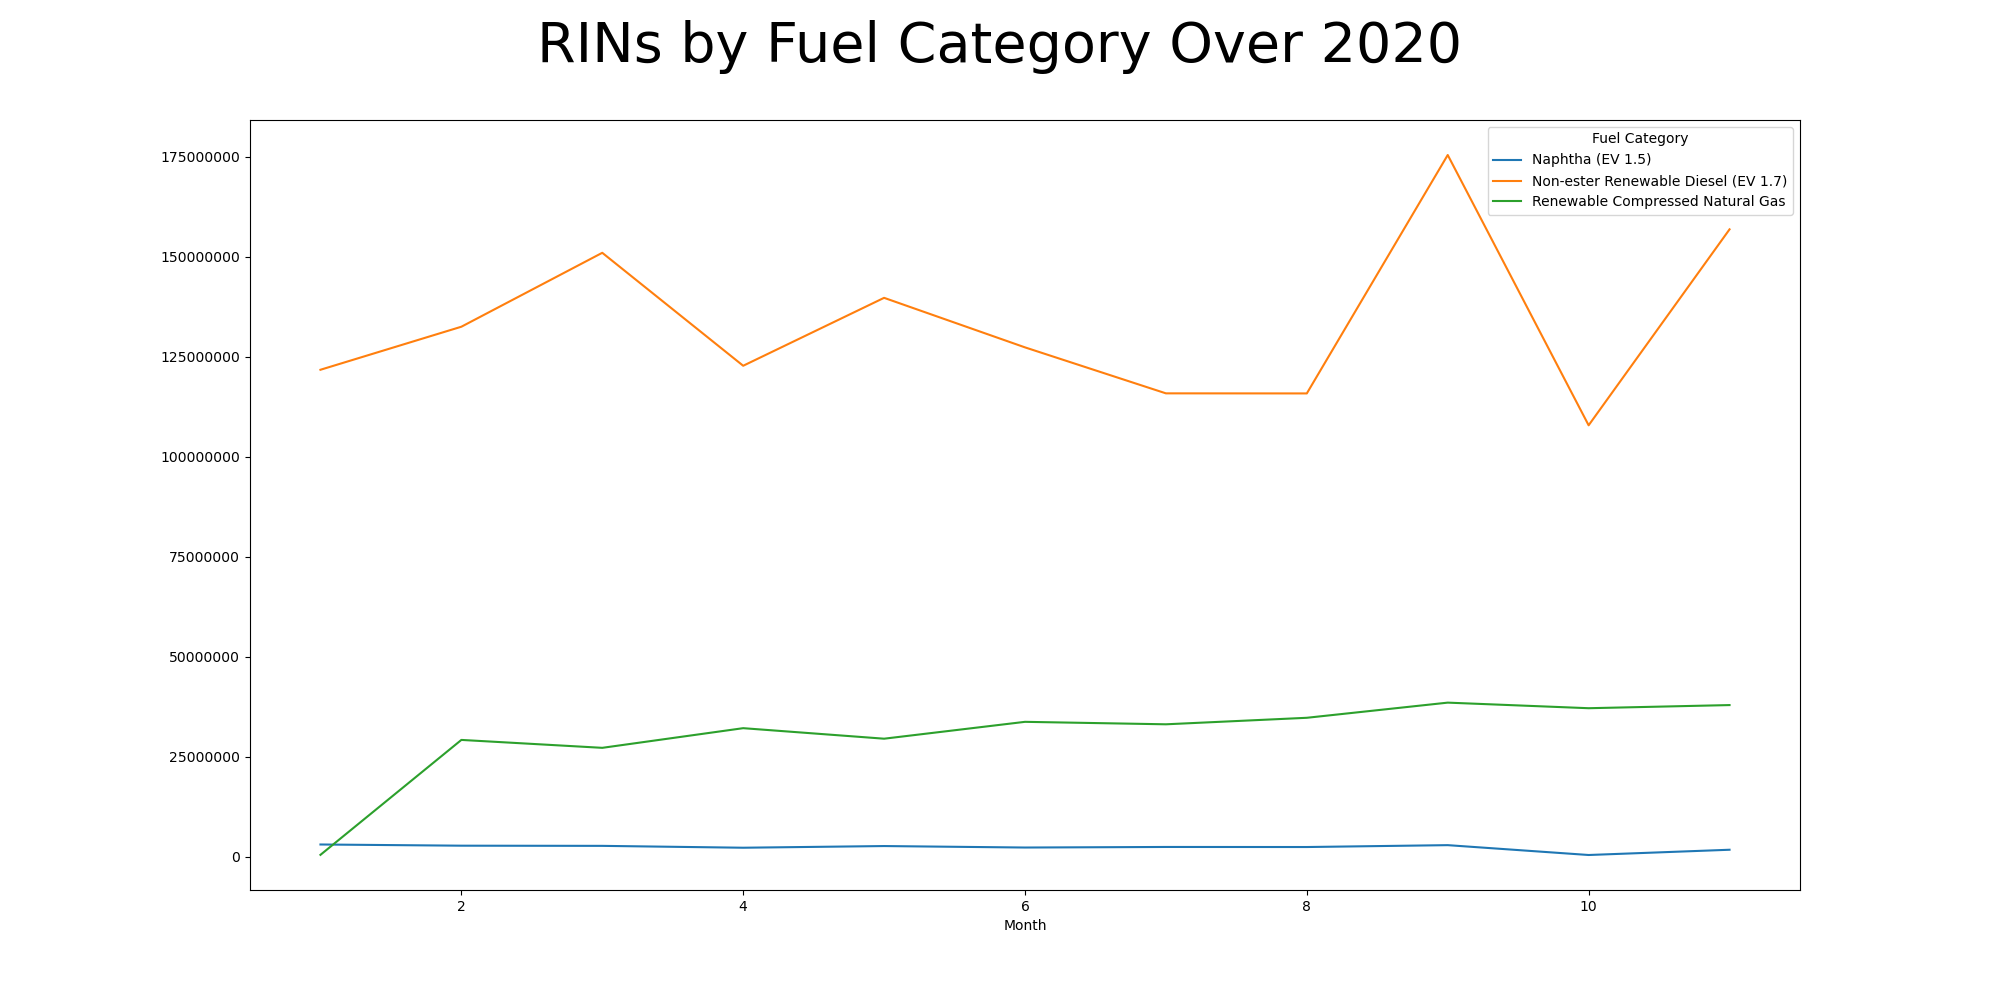
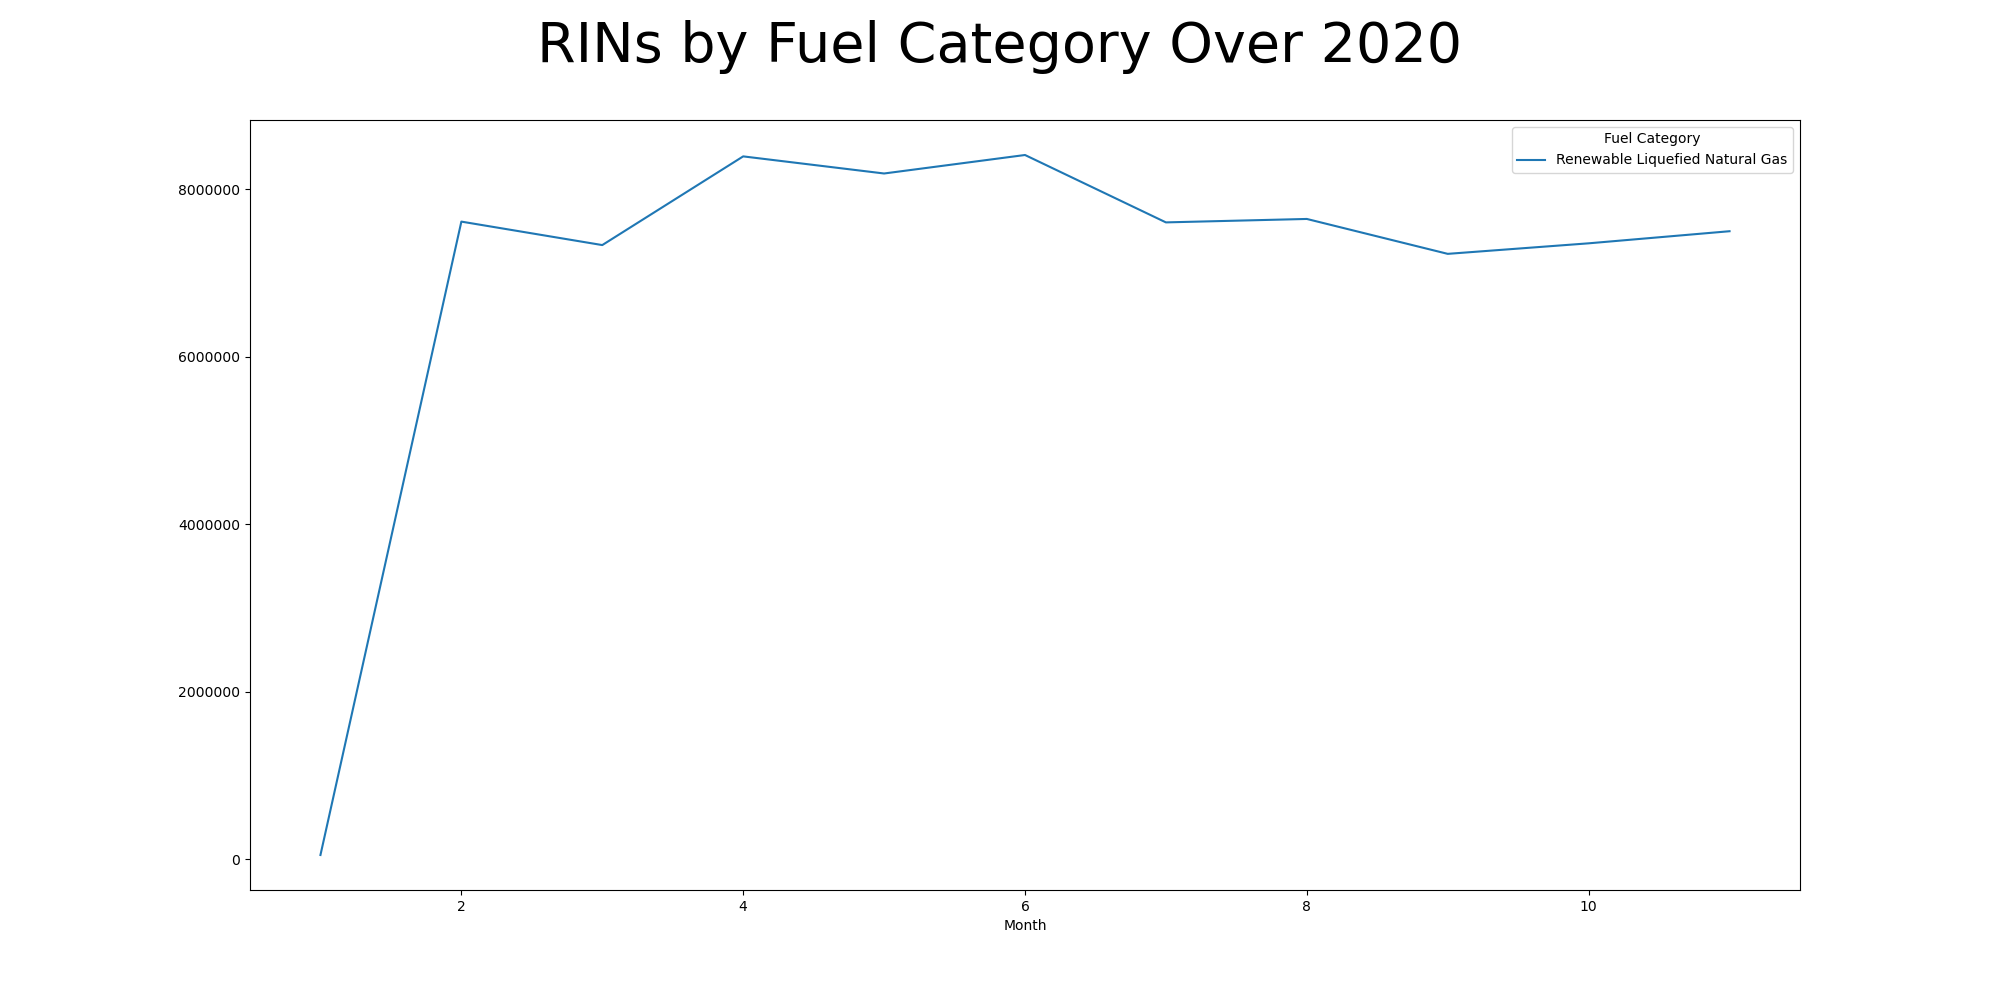
Fills NaN values

diff --git a/templates/plot.html b/templates/plot.html
@@ -8,15 +8,16 @@
         
         <title>Biofuel Plots</title>
     
-        <!-- External Links to CSS file -->
-        <link rel="stylesheet" media="all" type="text/css" href="../static/style.css" />
+        <!-- External Links to CSS files -->
+        <link rel="stylesheet" href="../static/css/bootstrap.min.css">
+        <link rel="stylesheet" href="../static/css/style.css">
     </head>
     <body>
-        <p>{{output}}</p>
-        <p>{{checked}}</p>
+        <!-- <p>{{output}}</p>
+        <p>{{checked}}</p> -->
         <div id="container">
             <form name="myForm" action="" method="post" onsubmit="">
-                <p>Choose Fuel Categories (check none to show all)</p>
+                <b>Choose Fuel Categories (check none to show all)</b><br>
                 <input type="checkbox" name="categories" id="category1" value="Biodiesel (EV 1.5)">
                 <label for="category1">Biodiesel (EV 1.5)</label><br>
                 <input type="checkbox" name="categories" id="category2" value="Cellulosic Ethanol (EV 1.0)">
@@ -40,15 +41,13 @@
                 <input type="checkbox" name="categories" id="category11" value="Renewable Jet Fuel (EV 1.6)">
                 <label for="category11">Renewable Jet Fuel (EV 1.6)</label><br>
                 <input type="checkbox" name="categories" id="category12" value="Renewable Liquefied Natural Gas">
-                <label for="category12">Renewable Liquefied Natural Gas</label><br>
-                <br>
-                <p>Choose Output</p>
+                <label for="category12">Renewable Liquefied Natural Gas</label><br><br>
+                <b>Choose Output</b><br>
                 <input type="radio" name="options" id="option1" value="RINs"> RINs <br>
-                <input type="radio" name="options" id="option2" value="Volume (Gal.)"> Volume (Gal.) <br>
-                <p><input type="submit" value="Submit"></p>
-                </form>
-            <br>
+                <input type="radio" name="options" id="option2" value="Volume (Gal.)"> Volume (Gal.) <br><br>
+                <button type="submit" class="btn btn-primary">Submit</button>
+            </form>
         </div>
-        <img src = "{{url}}" alt = "Biofuel line chart by category over 2020" width="75%">
+        <img src = "{{url}}" alt = "Biofuel line chart by category over 2020">
     </body>
 </html>

diff --git a/app.py b/app.py
@@ -1,5 +1,6 @@
 import matplotlib.pyplot as plt
 import pandas as pd
+import numpy as np
 from flask import Flask, render_template, Response, request
 
 app=Flask(__name__)
@@ -34,17 +35,16 @@ def plot():
 
     # Plot and save
     pivoted = filtered.pivot(index='Month', columns='Fuel Category', values=output)
-    pivoted.plot(ax = ax)
+    print(pivoted.head())
+    pivoted.fillna(pivoted.mean()).plot(ax = ax)
+
     plt.savefig('static/images/plot.png')
-    return render_template('plot.html', checked = checked, output = output, url = url)
+    # return render_template('plot.html', checked = checked, output = output, url = url)
+    return render_template('plot.html', url = url)
 
 # No caching at all for API endpoints.
 @app.after_request
 def add_header(response):
-    """
-    Add headers to both force latest IE rendering engine or Chrome Frame,
-    and also to cache the rendered page for 10 minutes.
-    """
     response.headers['X-UA-Compatible'] = 'IE=Edge,chrome=1'
     response.headers['Cache-Control'] = 'no-cache, no-store, public, max-age=0'
     response.headers['Pragma'] = 'no-cache'
@@ -52,6 +52,5 @@ def add_header(response):
 
 if __name__ == "__main__":
     import webbrowser
-
     webbrowser.open("http://127.0.0.1:5000/")
     app.run(debug=False)
